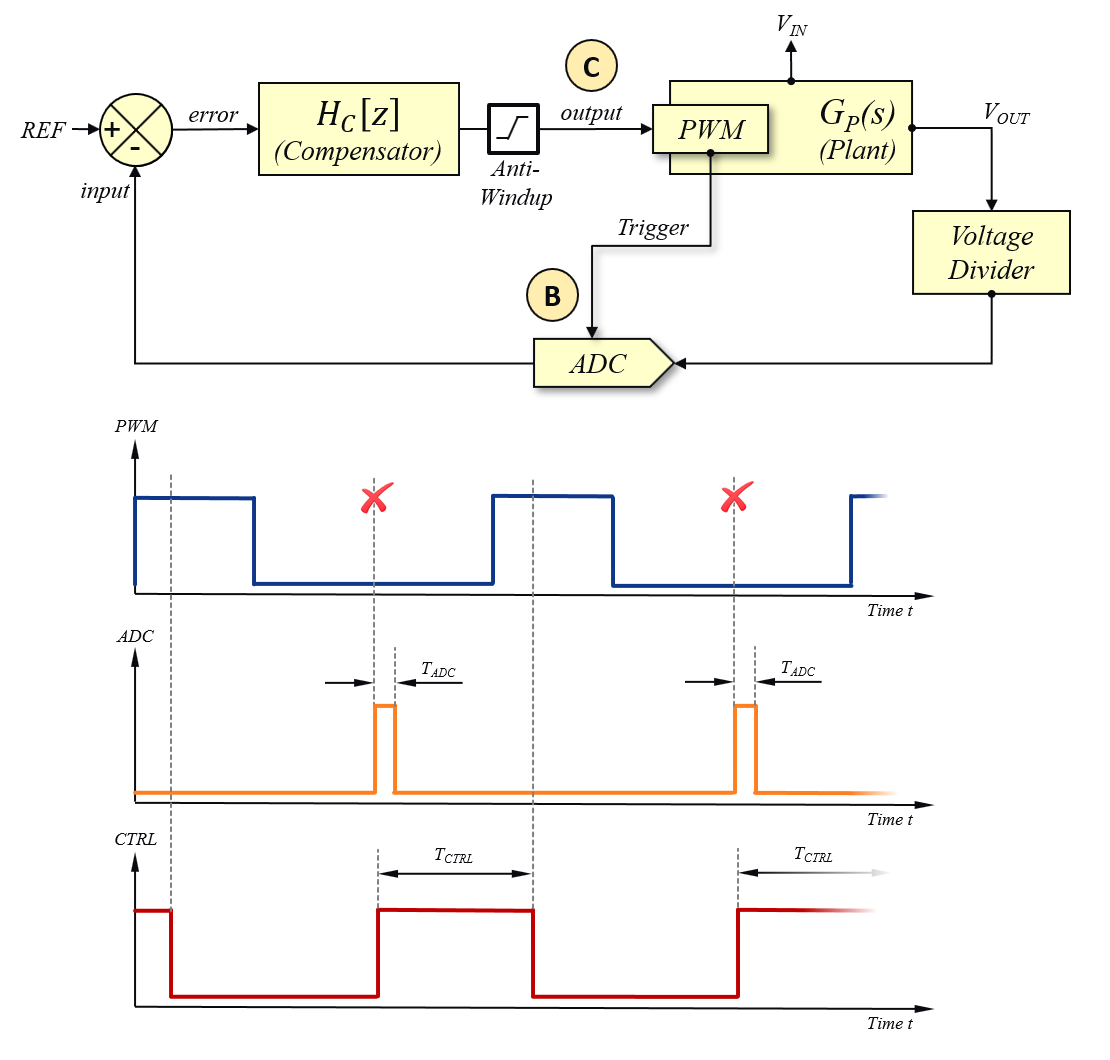
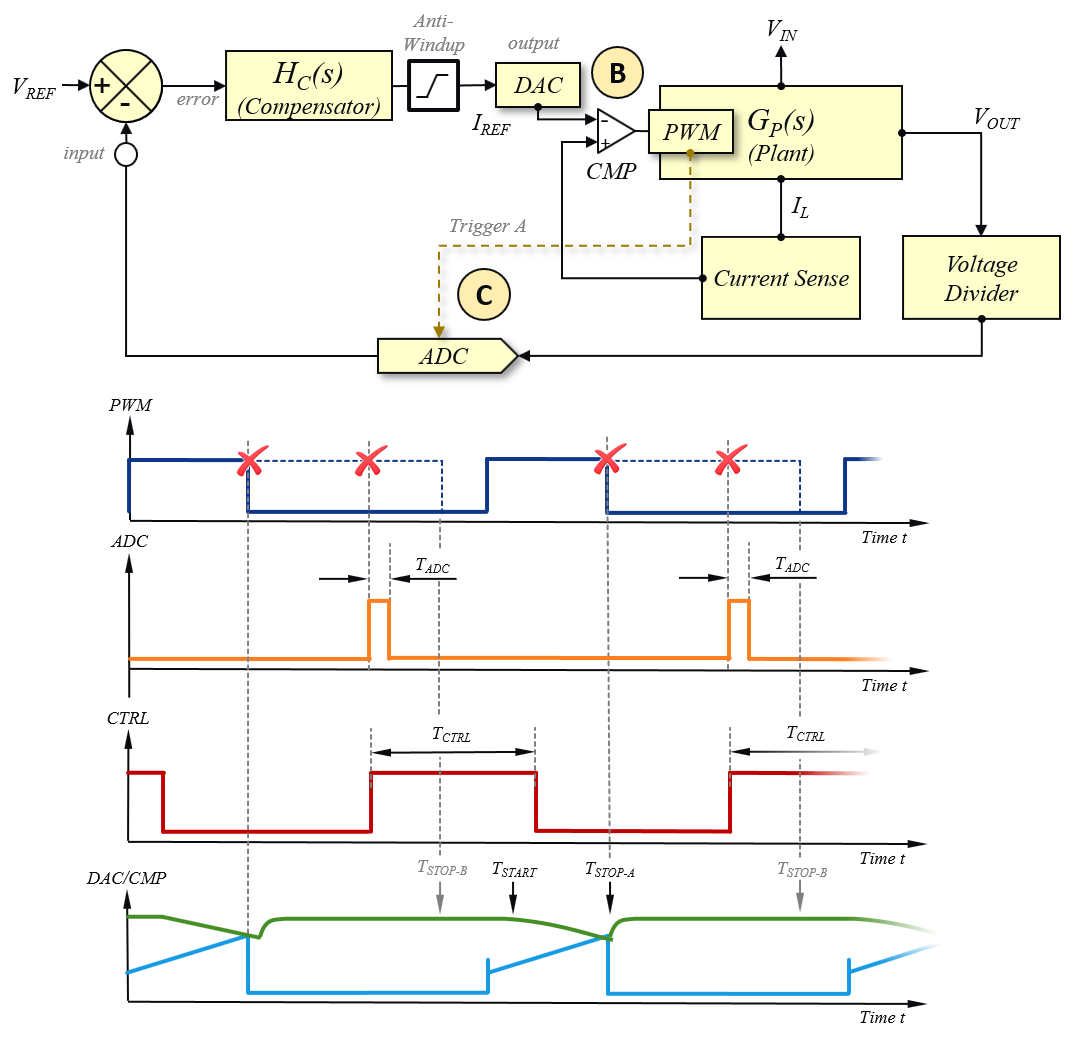
Reviewed and extended peak current mode control implementation description in help file

Changed region(s): [[0.0312, 0.0, 0.9982, 0.9818], [0.7798, 0.4295, 0.811, 0.4602], [0.0, 0.0614, 0.0312, 0.092]]

diff --git a/.mchp_private/doxygen_src/markdown-files/power-supply_control.md b/.mchp_private/doxygen_src/markdown-files/power-supply_control.md
@@ -7,27 +7,27 @@
 
 ## Table of Contents
 
-- [DPSK3 Buck Converter Peak Current Mode Control Loop Implementation](#vmc_1)
-- [Control Loop Block Diagram](#vmc_2)
-- [Control Loop Timing](#vmc_3)
-- [Control Loop Flow Chart](#vmc_4)
-- [Control Loop Firmware Implementation](#vmc_5)
+- [DPSK3 Buck Converter Peak Current Mode Control Loop Implementation](#pcmc_1)
+- [Control Loop Block Diagram](#pcmc_2)
+- [Control Loop Timing](#pcmc_3)
+- [Control Loop Flow Chart](#pcmc_4)
+- [Control Loop Firmware Implementation](#pcmc_5)
 
 
-<span id="vmc_1"> </span>
+<span id="pcmc_1"><a href="pcmc_1"> </a></span>
 
 ## 1) DPSK3 Buck Converter Peak Current Mode Control Loop Implementation
 
 This firmware demonstrates the implementation of a simple, single loop peak current mode controller used to regulate the constant output voltage of the on-board step-down converter of the Digital Power Starter Kit 3 (DPSK3). The implementation of the Voltage Feedback Loop requires one Analog-to-Digital Converter (ADC) input oversampling the output voltage of the converter and two PWM outputs (PWM high and PWM low) to drive the power converter half-bridge switch node in synchronous mode. The current feedback is generated by a current sense transformer, providing the positive slope of the triangular inductor current to an analog on-chip comparator. If the current feedback signal exceeds the internally applied reference signal, the comparator trips the PWM logic, truncating the active on-time.
 
 [[back](#startDoc)]
-<span id="vmc_2"> </span>
+<span id="pcmc_2"><a href="pcmc_2"> </a></span>
 
 ## 2) Control Loop Block Diagram
 
-*Figure 1* shows the block diagram of the buck converter voltage mode controller, where the ADC input is used to sample the most recent level of the output voltage feedback signal. Once converted, the value is then compared against the internal reference value and the inverse of the deviation between reference and feedback (= *error*) is pushed through the discrete compensation filter. 
+*Figure 1* shows the block diagram of the buck converter peak current mode controller, where the ADC input is used to sample the most recent level of the output voltage feedback signal. Once converted, the value is then compared against the internal reference value and the inverse of the deviation between reference and feedback (= *error*) is pushed through the discrete compensation filter. 
 
-In the Anti-Windup block, the output of the compensation filter is checked against user-specified minimum and maximum thresholds. Should any of these thresholds be exceeded, the controller output will be overwritten with the respective threshold value before being written directly to the PWM duty cycle register of the PWM logic.
+In the Anti-Windup block, the output of the compensation filter is checked against user-specified minimum and maximum thresholds. Should any of these thresholds be exceeded, the controller output will be overwritten with the respective threshold value before being written directly to the Digital-to-Analog Converter (DAC) register applying the reference to the internal comparator. The comparator output is triggering the PWM logic when the inductor current feedback exceeds teh reference, which will terminate the active on-time (output PWMxH going low).
 
 <div style="text-align:center">
     <img src="images/peak-current-mode-control.png" alt="Firmware Quick-Start Guide" width="800">
@@ -35,12 +35,18 @@ In the Anti-Windup block, the output of the compensation filter is checked again
 </div>
 <br>
 
+#### Light Load Syncronous Rectifier Control
+
+Light load operation of the controller implementation used in this code example observes the most recent control output written to the DAC providing the reference voltage to the switch-node comparator. This reference level represents the desired peak current of the inductor current and therefore relates to the power output of the converter. Below a certain threshold, the switching losses created by operating the low-side rectifier FET exceed the power loss savings gained by operating a FET instead of a passive rectifier diode. Below this power level the low-side FET is therefore turned off using its body diode to rectify the current, effectively switching the synchronous buck converter into asynchronous operation.
+
+As a result, the duty ratio may drop to zero until the converter ends up in burst mode operation under no-load conditions, where a sequence of short pulses is generated to recharge the output capacitor. As soon as the control loop produces a DAC value grater than the user-defined threshold, the converter will switch back into synchronous operation for improved efficiency in continuous conduction mode.
+
 [[back](#startDoc)]
-<span id="vmc_3"> </span> 
+<span id="pcmc_3"><a href="pcmc_3"> </a></span> 
 
 ## 3) Control Loop Timing
 
-The single voltage loop controller is triggered by the PWM counter at the same time as the ADC is triggered. The control loop is executing the overhead code of calculating the first part of the compensation filter term (= *A-Term*) until the most recent ADC sample is available to be processed in the later part of the compensation filter term computation (= *B-Term*). This approach helps to shorten the overall response time of the controller measured between ADC trigger and write back event of the most recent controller result to the duty cycle register of the PWM generator. The new controller output value will then be divided by two and added to half of the period value to place the new ADC trigger point at 50% of the off-time. If the user has specified an additional offset to compensate FET driver propagation delays, this constant time-offset is also added before the ADC trigger location is updated. The the new duty cycle value will be updated immediately when the new value of the ADC trigger location is written to the PWM generator logic. By placing the ADC trigger point at 50% of the off time, the total control response is less than half a switching period, resulting in minimized phase erosion. 
+The single, outer voltage loop controller is triggered by the PWM counter at the same time as the ADC is triggered. The control loop is executing the overhead code of calculating the first part of the compensation filter term (= *A-Term*) until the most recent ADC sample is available to be processed in the later part of the compensation filter term computation (= *B-Term*). This approach helps to shorten the overall response time of the controller measured between ADC trigger and write back event of the most recent controller result to the DAC register. The ADC trigger point is positioned towards the end of the period leaving enough room for the computation to complete before the next cycle end is expected. By placing the ADC trigger point as late as feasible within the period, the total control response time is less than half a switching period, resulting in minimized phase erosion.
 
 <div style="text-align:center">
     <img src="images/control_timing.png" alt="Firmware Quick-Start Guide" width="800">
@@ -49,15 +55,15 @@ The single voltage loop controller is triggered by the PWM counter at the same t
 <br>
 
 [[back](#startDoc)]
-<span id="vmc_4"> </span>
+<span id="pcmc_4"><a href="pcmc_4"> </a></span>
 
 ## 4) Control Loop Flow Chart
 
-*Figure 3* shows a typical flow chart of a discrete software feedback loop called at the desired control frequency. It covers the loop path from ADC trigger to PWM output shown in the block diagram above (see *Figure 2*) while supporting additional features like an *Enable/Disable Bypass Switch* or advanced features like *Adaptive Gain Control (AGC)*.
+*Figure 3* shows a typical flow chart of a discrete software feedback loop called at the desired control frequency. It covers the loop path from ADC trigger to DAC update shown in the block diagram above (see *Figure 2*) while supporting additional features like an *Enable/Disable Bypass Switch*.
 
 - <span style="color:green"> <b>[green]</b></span> boxes represent default building blocks
-- <span style="color:grey"> <b>[grey]</b> </span> boxes represent unused optional features 
-- <span style="color:blue"> <b>[blue]</b> </span> boxes represent active optional features 
+- <span style="color:grey"> <b>[grey]</b> </span> boxes represent unused optional features
+- <span style="color:blue"> <b>[blue]</b> </span> boxes represent active optional features
 
 <div style="text-align:center">
     <img src="images/npnz16b-flowchart.png" alt="Firmware Quick-Start Guide" width="460">
@@ -71,24 +77,24 @@ The compensation filter is based on an Infinite-Impulse-Response (IIR) filter co
 
 
 [[back](#startDoc)]
-<span id="vmc_5"> </span>
+<span id="pcmc_5"><a href="pcmc_5"> </a></span>
 
 ## 5) Control Loop Firmware Implementation
 
 *Figure 4* shows a typical implementation of the power converter state machine and the high-speed control loop in a task scheduler based firmware environment.
 
 - <span style="color:darkorange"> <b>Real Time Control Loop and Low Level Drivers</b> </span>
-The control loop is called in an independent high priority Interrupt Service Routine (ISR) by the PWM module simultaneously with triggering the ADC input. Thus, the control loop is tightly coupled to the PWM switching signal and synchronized to the most recent ADC conversion process, allowing a highly deterministic arrangement of code execution, peripheral module activity and external analog circuit operation. The interrupt priority needs to be high enough to override all other software tasks of the firmware to ensure jitter-free execution of the control loop. 
+The control loop is called in an independent high priority Interrupt Service Routine (ISR) by the PWM module simultaneously with triggering the ADC input. Thus, the control loop is tightly coupled to the PWM switching signal and synchronized to the most recent ADC conversion process, allowing a highly deterministic arrangement of code execution, peripheral module activity and external analog circuit operation. The interrupt priority needs to be high enough to override all other software tasks of the firmware to ensure jitter-free execution of the control loop.
 <br><br>
 - <span style="color:green"> <b>Topology-Specific State Machine Library</b></span>
-Each converter topology requires a specifically tailored configuration of related chip resources as well as start-up, control and monitoring procedures. *Topology State Machine Libraries* support a wide range of circuit configurations, control modes and functional features. Build-in peripheral configuration drivers are used to ease the configuration of required chip resources, such as number of PWM channels and their signal configuration, number of Analog-to-Digital (ADC) inputs, analog comparators, Digital-to-Analog Converter (DAC) channels, etc. 
+Each converter topology requires a specifically tailored configuration of related chip resources as well as start-up, control and monitoring procedures. *Topology State Machine Libraries* support a wide range of circuit configurations, control modes and functional features. Build-in peripheral configuration drivers are used to ease the configuration of required chip resources, such as number of PWM channels and their signal configuration, number of Analog-to-Digital (ADC) inputs, analog comparators, Digital-to-Analog Converter (DAC) channels, etc.
 All user configurations of a topology specific power converter are encapsulated in a comprehensive data object. This approach allows the definition of multiple power supplies of the same type being included, monitored and run independently from each other. Each of these power converter objects also include the declaration of the high-speed control loop object described above, enabling it to control peripherals and control loop code to be synchronized to time-critical states.
 <br><br>
 - <span style="color:darkblue"> <b>Application Layer of the Power Supply Control Task</b> </span>
 The application layer of this task is the proprietary firmware component covering the application-specific configuration of library data objects and high-speed control loops. It also allows to add and tailor functions, which are not covered by the default features of library modules.
 <br><br>
 - <span style="color:grey"> <b>Scheduler Level</b> </span>
-The scheduler level organizes all tasks of the firmware. Besides the power control and related fault handler task, this DPSK3 code example includes the on-board LC display data output, the on-board push-button control of the LC display screens and the on-board debugging LED, which are considered  less time critical, low-priority tasks. The main task scheduler in this firmware example therefore supports two priority levels, one for power control and fault handling, executed at a rate of 10 kHz (= 100 us interval) and the low priority tasks, executed at rates between 0.5 ms and 250 ms. 
+The scheduler level organizes all tasks of the firmware. Besides the power control and related fault handler task, this DPSK3 code example includes the on-board LC display data output, the on-board push-button control of the LC display screens and the on-board debugging LED, which are considered less time critical, low-priority tasks. The main task scheduler in this firmware example therefore supports two priority levels, one for power control and fault handling, executed at a rate of 10 kHz (= 100 us interval) and the low priority tasks, executed at rates between 0.5 ms and 250 ms.
 <br><br>
 
 <div style="text-align:center">
